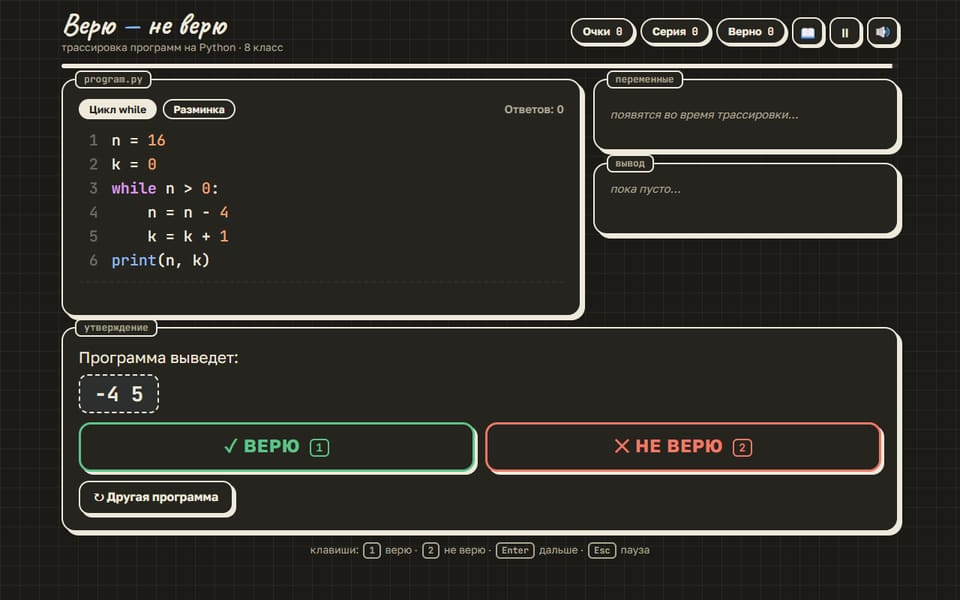
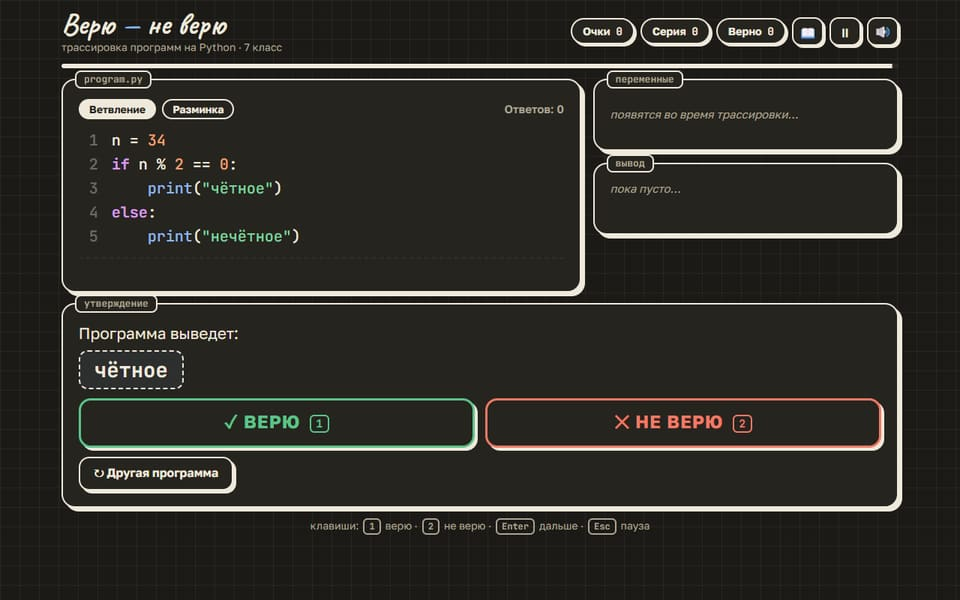
Перенеси игру «Верю — не верю» в 7 класс

Changed region(s): [[0.0625, 0.48, 0.9688, 0.93], [0.0938, 0.15, 0.3125, 0.45], [0.25, 0.06, 0.3125, 0.09]]

diff --git a/public/games/veryu-ne-veryu.html b/public/games/veryu-ne-veryu.html
@@ -173,7 +173,7 @@ ol.src,.note,pre,pre.out,pre.cout,.help pre,code,.claim code,.help code,.feedbac
 <body>
 <div id="app">
   <header>
-    <div class="brand"><h1>Верю <span>—</span> не верю</h1><small>трассировка программ на Python · 8 класс</small></div>
+    <div class="brand"><h1>Верю <span>—</span> не верю</h1><small>трассировка программ на Python · 7 класс</small></div>
     <div class="stats">
       <div class="pill" id="pTime" hidden>⏱ <b id="clock">10:00</b></div>
       <div class="pill" id="pPts" hidden>Баллы <b id="epts">0</b></div>

diff --git a/docs/GAMES.md b/docs/GAMES.md
@@ -13,7 +13,7 @@
 | Двоичный столбик | `dvoichnyi-stolbik.html` | 8 | Арифметика в 2/8/16 | сложение, вычитание, умножение; строка переносов, разбор по шагам | да |
 | Истинно / Ложно | `istinno-lozhno.html` | 8 | Алгебра логики | таблица истинности (с порядком действий), вычисли значение, детектив | да |
 | Поисковые круги | `poiskovye-krugi.html` | 8–9 | Круги Эйлера, поисковые запросы (ОГЭ) | закрась запрос, угадай запрос, сколько страниц; НЕ и область 0 | да |
-| Верю — не верю | `veryu-ne-veryu.html` | 8 | Трассировка программ на Python | линейные, if/elif, while, for; утверждение о выводе или числе повторов, ловушки на типичных ошибках, пошаговая трассировка | да |
+| Верю — не верю | `veryu-ne-veryu.html` | 7 | Трассировка программ на Python | линейные, if/elif, while, for; утверждение о выводе или числе повторов, ловушки на типичных ошибках, пошаговая трассировка | да |
 
 Параметры контрольной в каждой игре — объект `EXAM` в начале скрипта (время, порядок заданий, баллы, пороги оценок).
 

diff --git a/docs/STRATEGY.md b/docs/STRATEGY.md
@@ -79,3 +79,4 @@
 | 2026-10-12 | Сайт переехал на свой домен https://infoshag.ru (DNS у Beget, хостинг GitHub Pages, HTTPS включён) |
 | 2026-10-13 | Раздел «Как использовать на уроке» убран: в карточке только описание игры, а у игр с контрольной — абзац о контрольной на 10 минут. Добавлены sitemap.xml и robots.txt |
 | 2026-10-17 | Игра «Калдера» (кампания «Робот» для 8 класса) опубликована на сайте. Это версия личной игры, из которой по решению автора убраны имена и термины из «Дюны» Ф. Герберта (планета, дома, персонажи, пряность, червь и др.); механика, уровни и сюжет сохранены. Исходная личная версия остаётся вне сайта |
+| 2026-10-17 | Игра «Верю — не верю» (трассировка программ на Python) размещена в 7 классе, а не в 8-м, по решению автора |

diff --git a/README.md b/README.md
@@ -58,7 +58,7 @@
 | [➕ Двоичный столбик](https://infoshag.ru/item/dvoichnyi-stolbik/) | 8 | Арифметика в системах счисления | ✓ |
 | [✅ Истинно / Ложно](https://infoshag.ru/item/istinno-lozhno/) | 8 | Таблицы истинности и логические выражения | ✓ |
 | [🔎 Поисковые круги](https://infoshag.ru/item/poiskovye-krugi/) | 8–9 | Круги Эйлера и поисковые запросы | ✓ |
-| [🐍 Верю — не верю](https://infoshag.ru/item/veryu-ne-veryu/) | 8 | Трассировка программ на Python: ветвление и циклы | ✓ |
+| [🐍 Верю — не верю](https://infoshag.ru/item/veryu-ne-veryu/) | 7 | Трассировка программ на Python: ветвление и циклы | ✓ |
 
 В контрольных время идёт по настоящим часам, справка отключена, а результат содержит оценку и разбивку по типам заданий. Параметры учитель может изменить в объекте `EXAM` внутри файла игры.
 

diff --git a/docs/ROADMAP.md b/docs/ROADMAP.md
@@ -75,7 +75,7 @@ HTML-игры, поэтому сайт-каталог публикуется в 
 
 ## Сделано
 
-- [x] 2026-10-17 Игра «Верю — не верю»: трассировка программ на Python, 8 класс, с контрольной
+- [x] 2026-10-17 Игра «Верю — не верю»: трассировка программ на Python, 7 класс, с контрольной
 - [x] 2026-10-16 Оформление репозитория: README с фирменной обложкой, кадрами из игр, навигацией, списком игр и таблицей технологий
 - [x] 2026-10-01…11 Семь игр по стандарту (список — `docs/GAMES.md`)
 - [x] 2026-10-02 Сайт-каталог: фильтры по классу и типу, поиск, страница материала с QR

diff --git a/src/content/items/veryu-ne-veryu.md b/src/content/items/veryu-ne-veryu.md
@@ -5,14 +5,13 @@ summary: "Трассировка программ на Python: прочитай 
 emoji: 🐍
 color: "#3572A5"
 url: games/veryu-ne-veryu.html
-grades: [8]
+grades: [7]
 topic: "Начала программирования: линейные программы, ветвление, циклы"
-textbook: "Босова, 8 класс — начала программирования на Python"
 duration: "10 минут"
 format: [за компьютерами, на доске]
 modes: [линейные программы, ветвление, цикл while, цикл for, контрольная на 10 минут с оценкой]
 tags: [Python, трассировка, if, while, for, range, ОГЭ]
-order: 80
+order: 25
 added: 2026-10-17
 poster: posts/veryu-ne-veryu.jpg
 ---
